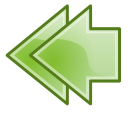
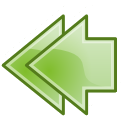
Centered the green Arrows vertically and did some centering in CSS

diff --git a/style.css b/style.css
@@ -60,7 +60,7 @@ html
     margin-right: 2%;
     margin-top: 13px;
     height: 70px;
-    width: 99%;
+    width: 96%;
     list-style-type: none;
 }
 
@@ -79,14 +79,13 @@ html
 .comic_navigation li
 {
 	display: inline;
-	margin-left: 2%;
-    margin-right: 2%;
+	margin-left: 3.5%;
+    margin-right: 3.5%;
     width: 99%;
 }
 
 #content
 {
-	height: 800px;
     width: 80%;
     margin-left: 10%;
     margin-right: 10%;
@@ -95,8 +94,7 @@ html
 
 #comicPicture
 {
-	height: 600px;
-	width: 800px;
+	width: 100%;
 }
 
 .editThumbs
